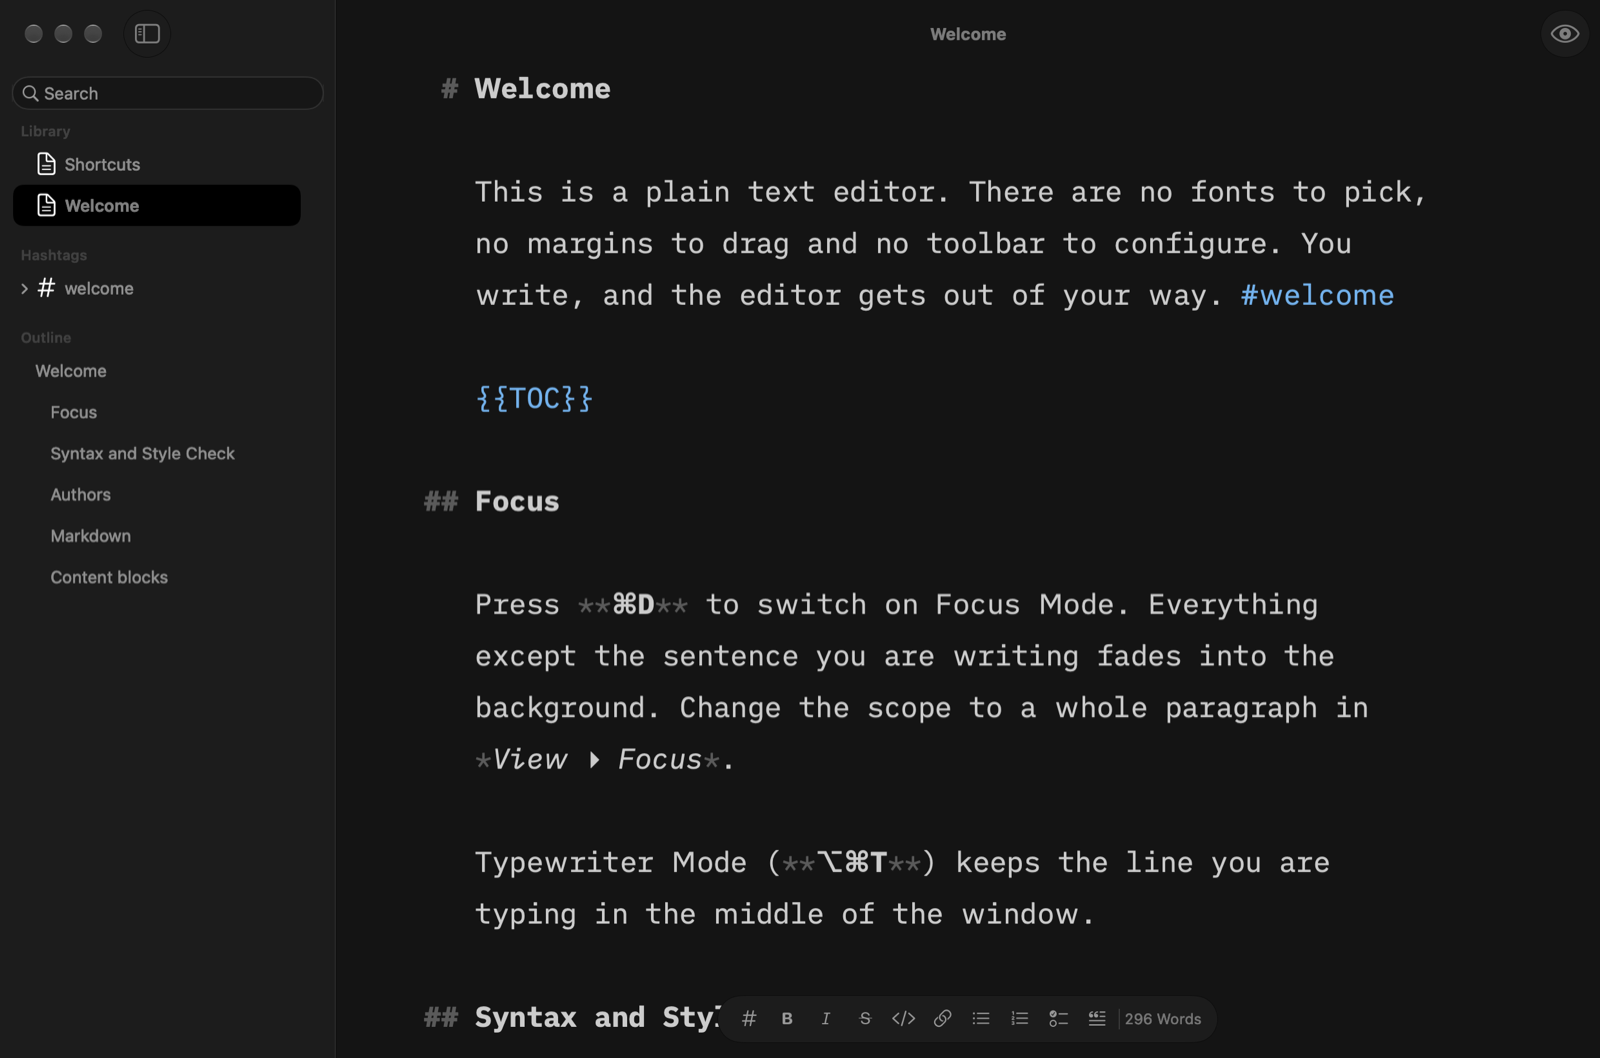
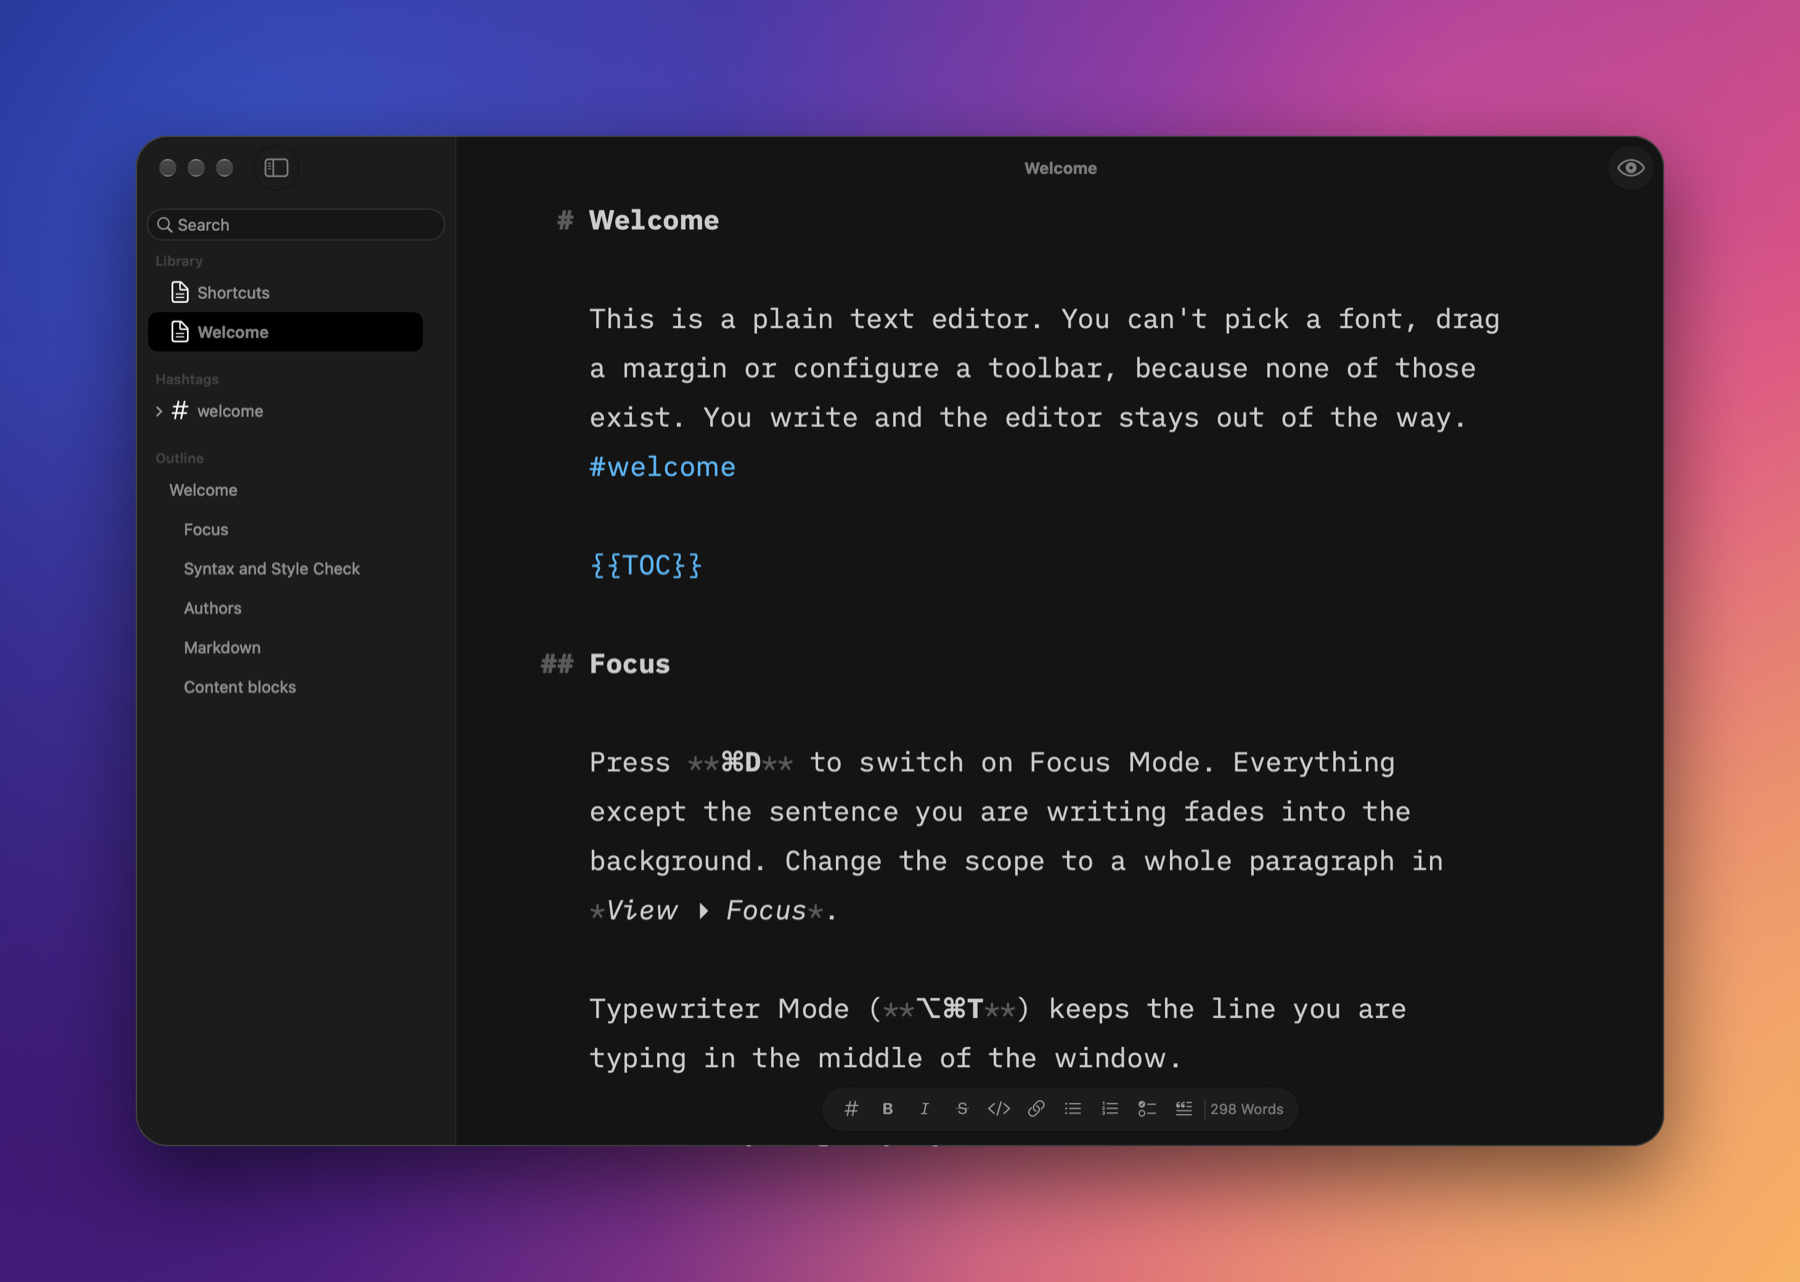
Tighten README and Welcome prose; framed hero screenshot
Rewrite README and Welcome copy to drop list-of-three and passive
phrasing, regenerate the screenshots, and add a script that sets the
hero shot on a gradient background.

diff --git a/Scripts/frame-screenshot.swift b/Scripts/frame-screenshot.swift
@@ -1,0 +1,73 @@
+import AppKit
+
+let arguments = CommandLine.arguments
+guard arguments.count == 3,
+      let data = FileManager.default.contents(atPath: arguments[1]),
+      let window = NSBitmapImageRep(data: data)?.cgImage else {
+    FileHandle.standardError.write(Data("usage: frame-screenshot.swift <window.png> <out.png>\n".utf8))
+    exit(1)
+}
+
+let margin = 220
+let width = window.width + margin * 2
+let height = window.height + margin * 2
+let space = CGColorSpace(name: CGColorSpace.sRGB)!
+let context = CGContext(data: nil, width: width, height: height, bitsPerComponent: 8, bytesPerRow: 0, space: space,
+                        bitmapInfo: CGImageAlphaInfo.premultipliedLast.rawValue)!
+
+func color(_ hex: UInt32, _ alpha: CGFloat = 1) -> CGColor {
+    CGColor(colorSpace: space, components: [
+        CGFloat((hex >> 16) & 255) / 255, CGFloat((hex >> 8) & 255) / 255, CGFloat(hex & 255) / 255, alpha,
+    ])!
+}
+
+func gradient(_ stops: [(UInt32, CGFloat, CGFloat)]) -> CGGradient {
+    CGGradient(colorSpace: space,
+               colorComponents: stops.flatMap { hex, alpha, _ in
+                   let c = color(hex, alpha).components!
+                   return [c[0], c[1], c[2], c[3]]
+               },
+               locations: stops.map { $0.2 }, count: stops.count)!
+}
+
+let canvas = CGPoint(x: width, y: height)
+context.drawLinearGradient(
+    gradient([(0x1b1464, 1, 0), (0x6a2c9e, 1, 0.45), (0xd1507c, 1, 0.75), (0xf2a65a, 1, 1)]),
+    start: CGPoint(x: 0, y: canvas.y), end: CGPoint(x: canvas.x, y: 0), options: [])
+
+let blobs: [(CGFloat, CGFloat, CGFloat, UInt32, CGFloat)] = [
+    (0.15, 0.85, 0.55, 0x3f7bff, 0.55),
+    (0.85, 0.15, 0.50, 0xffc371, 0.60),
+    (0.80, 0.90, 0.40, 0xff5fa2, 0.45),
+    (0.10, 0.10, 0.45, 0x2a0f5c, 0.60),
+]
+for (x, y, radius, hex, alpha) in blobs {
+    context.drawRadialGradient(
+        gradient([(hex, alpha, 0), (hex, 0, 1)]),
+        startCenter: CGPoint(x: canvas.x * x, y: canvas.y * y), startRadius: 0,
+        endCenter: CGPoint(x: canvas.x * x, y: canvas.y * y), endRadius: canvas.x * radius, options: [])
+}
+
+let frame = CGRect(x: margin, y: margin, width: window.width, height: window.height)
+let shape = CGPath(roundedRect: frame, cornerWidth: 52, cornerHeight: 52, transform: nil)
+
+context.saveGState()
+context.setShadow(offset: CGSize(width: 0, height: -50), blur: 140, color: color(0x000000, 0.55))
+context.addPath(shape)
+context.setFillColor(color(0x161616))
+context.fillPath()
+context.restoreGState()
+
+context.saveGState()
+context.addPath(shape)
+context.clip()
+context.draw(window, in: frame)
+context.restoreGState()
+
+context.addPath(CGPath(roundedRect: frame.insetBy(dx: 1, dy: 1), cornerWidth: 51, cornerHeight: 51, transform: nil))
+context.setStrokeColor(color(0xffffff, 0.18))
+context.setLineWidth(2)
+context.strokePath()
+
+let output = NSBitmapImageRep(cgImage: context.makeImage()!)
+try! output.representation(using: .png, properties: [:])!.write(to: URL(fileURLWithPath: arguments[2]))

diff --git a/README.md b/README.md
@@ -2,8 +2,8 @@
 
 <p align="center">
   <b>A Markdown editor that gets out of your way.</b><br>
-  No font picker. No margins to drag. No toolbar to configure.<br>
-  Just you, a blinking caret, and a suspicious number of adverbs.
+  There's no font picker, no draggable margin and no toolbar to configure,<br>
+  so the only thing left to do is write. It'll flag the "very"s you let slip through.
 </p>
 
 <p align="center">
@@ -17,7 +17,7 @@
   <img src="docs/editor.png" alt="Writer's editor with the library, outline and hashtag sidebar" width="860">
 </p>
 
-Writer is a native AppKit take on iA Writer: plain text in, calm typography out. It's fast, it's small, and it never asks you to sign in. The browser version lives in [writer-web](https://github.com/sam-b-rose/writer-web).
+Writer is a native AppKit take on iA Writer: plain text in, calm typography out. It reads and writes ordinary Markdown files in a folder you choose, so your notes outlive the app. The browser version lives in [writer-web](https://github.com/sam-b-rose/writer-web).
 
 ## Install
 
@@ -26,7 +26,7 @@ brew tap sam-b-rose/writer-mac https://github.com/sam-b-rose/writer-mac
 brew install --cask sam-b-rose/writer-mac/writer
 ```
 
-Or build it yourself. All you need is the Xcode Command Line Tools (no Xcode, no drama):
+Or build it yourself; the Xcode Command Line Tools are enough, and full Xcode isn't required:
 
 ```sh
 ./build.sh && open build/Writer.app
@@ -38,21 +38,21 @@ The first launch creates `~/Documents/Writer` with a welcome document. Pick anot
 
 ### Focus Mode (⌘D)
 
-Everything except the sentence you're writing fades out. Your inner editor can wait its turn. Widen the scope to a paragraph in *View ▸ Focus*, and pin the active line to the middle of the window with Typewriter Mode (⌥⌘T).
+Everything except the sentence you're writing fades out, so the urge to reread the last paragraph has nothing to grab onto. Widen the scope to a paragraph in *View ▸ Focus*; Typewriter Mode (⌥⌘T) pins the active line to the middle of the window.
 
 <p align="center"><img src="docs/focus.png" alt="Focus Mode dimming everything but the current sentence" width="760"></p>
 
 ### Syntax highlighting for your prose
 
-Parts of speech get their own colors, so you can see at a glance that you wrote nine adjectives in a row. Style Check then strikes through fillers, clichés and redundancies, like "at the end of the day" and "basically". It's rude, and it's right.
+Parts of speech get their own colors, which makes a run of adverbs or a pile of nouns easy to spot. Style Check strikes through fillers, clichés and redundancies; in the screenshot it caught "actually", "basically" and "added bonus". It's rude, and it's right.
 
-Paste with ⇧⌘V and the text is marked as AI-written and shown in color. Anything you type into it becomes yours. Authorship is saved in the file itself, so it travels with the document.
+Paste with ⇧⌘V and Writer marks the text as AI-written and colors it. Characters you type into it become yours. The authorship lives in the file itself, so it travels with the document.
 
 <p align="center"><img src="docs/syntax.png" alt="Parts of speech, Style Check strikethroughs and authorship colors" width="760"></p>
 
 ### Preview (⌘R)
 
-A WebKit preview with KaTeX math, footnotes, callouts, tables, task lists and content blocks. Drop a `.css` file into the templates folder for your own look.
+A WebKit preview renders KaTeX math, footnotes, callouts, tables, task lists and content blocks. For your own look, drop a `.css` file into the templates folder.
 
 <p align="center"><img src="docs/preview.png" alt="Rendered preview with a table of contents" width="360"></p>
 
@@ -70,11 +70,11 @@ A WebKit preview with KaTeX math, footnotes, callouts, tables, task lists and co
 
 - Preview templates: drop a `.css` file into `~/Library/Application Support/Writer/Templates`; it appears under View ▸ Template.
 - Style Check: View ▸ Style Check ▸ Edit Custom Patterns, one phrase per line.
-- Authorship is stored in a footer block at the end of each file (`Annotations:` with a SHA-256 of the text). If the text is changed elsewhere the block is ignored.
+- Authorship lives in a footer block at the end of each file (`Annotations:` with a SHA-256 of the text). If you change the text in another editor, Writer ignores the block.
 
 ## Notes
 
-Downloaded zips are ad-hoc signed, so macOS needs System Settings ▸ Privacy & Security ▸ Open Anyway on first launch. The Homebrew cask removes the quarantine flag itself.
+Release zips are ad-hoc signed, so on first launch you need System Settings ▸ Privacy & Security ▸ Open Anyway. The Homebrew cask removes the quarantine flag itself.
 
 ## Contributing
 

diff --git a/Resources/Welcome.md b/Resources/Welcome.md
@@ -1,6 +1,6 @@
 # Welcome
 
-This is a plain text editor. There are no fonts to pick, no margins to drag and no toolbar to configure. You write, and the editor gets out of your way. #welcome
+This is a plain text editor. You can't pick a font, drag a margin or configure a toolbar, because none of those exist. You write and the editor stays out of the way. #welcome
 
 {{TOC}}
 
@@ -18,7 +18,7 @@ Style Check marks fillers, clichés and redundancies. It is actually very useful
 
 ## Authors
 
-Text pasted with **⇧⌘V** is marked as written by AI and shown in color. Characters you type into it become yours. Authorship is saved at the end of the file, so it travels with the document.
+Paste with **⇧⌘V** and Writer marks the text as written by AI and colors it. Characters you type into it become yours. Authorship is saved at the end of the file, so it travels with the document.
 
 ## Markdown
 
@@ -37,7 +37,7 @@ Text pasted with **⇧⌘V** is marked as written by AI and shown in color. Char
 
 Press Tab inside a table to move between cells. The *Format ▸ Table* menu adds, moves, sorts and aligns rows and columns.
 
-Math is written in TeX: $e^{i\pi} + 1 = 0$, or as a block:
+Write math in TeX: $e^{i\pi} + 1 = 0$, or as a block:
 
 $$
 \int_0^\infty e^{-x^2}\,dx = \frac{\sqrt{\pi}}{2}

diff --git a/AGENTS.md b/AGENTS.md
@@ -29,7 +29,7 @@ build/Writer.app/Contents/MacOS/Writer --snapshot <dir> --library <dir>
 
 ## README screenshots
 
-`docs/*.png` come from the snapshot run: `01-editor`, `02-focus`, `03-syntax-style-authors` and `06-preview`, resized with `sips -Z 1600` (`-Z 700` for the preview).
+`docs/*.png` come from the snapshot run: `02-focus`, `03-syntax-style-authors` and `06-preview`, resized with `sips -Z 1600` (`-Z 700` for the preview). `docs/editor.png` is `01-editor` put on a gradient background with `swiftc Scripts/frame-screenshot.swift -o <bin> && <bin> 01-editor.png out.png`, then `sips -Z 1800`.
 
 ## Releasing
 
